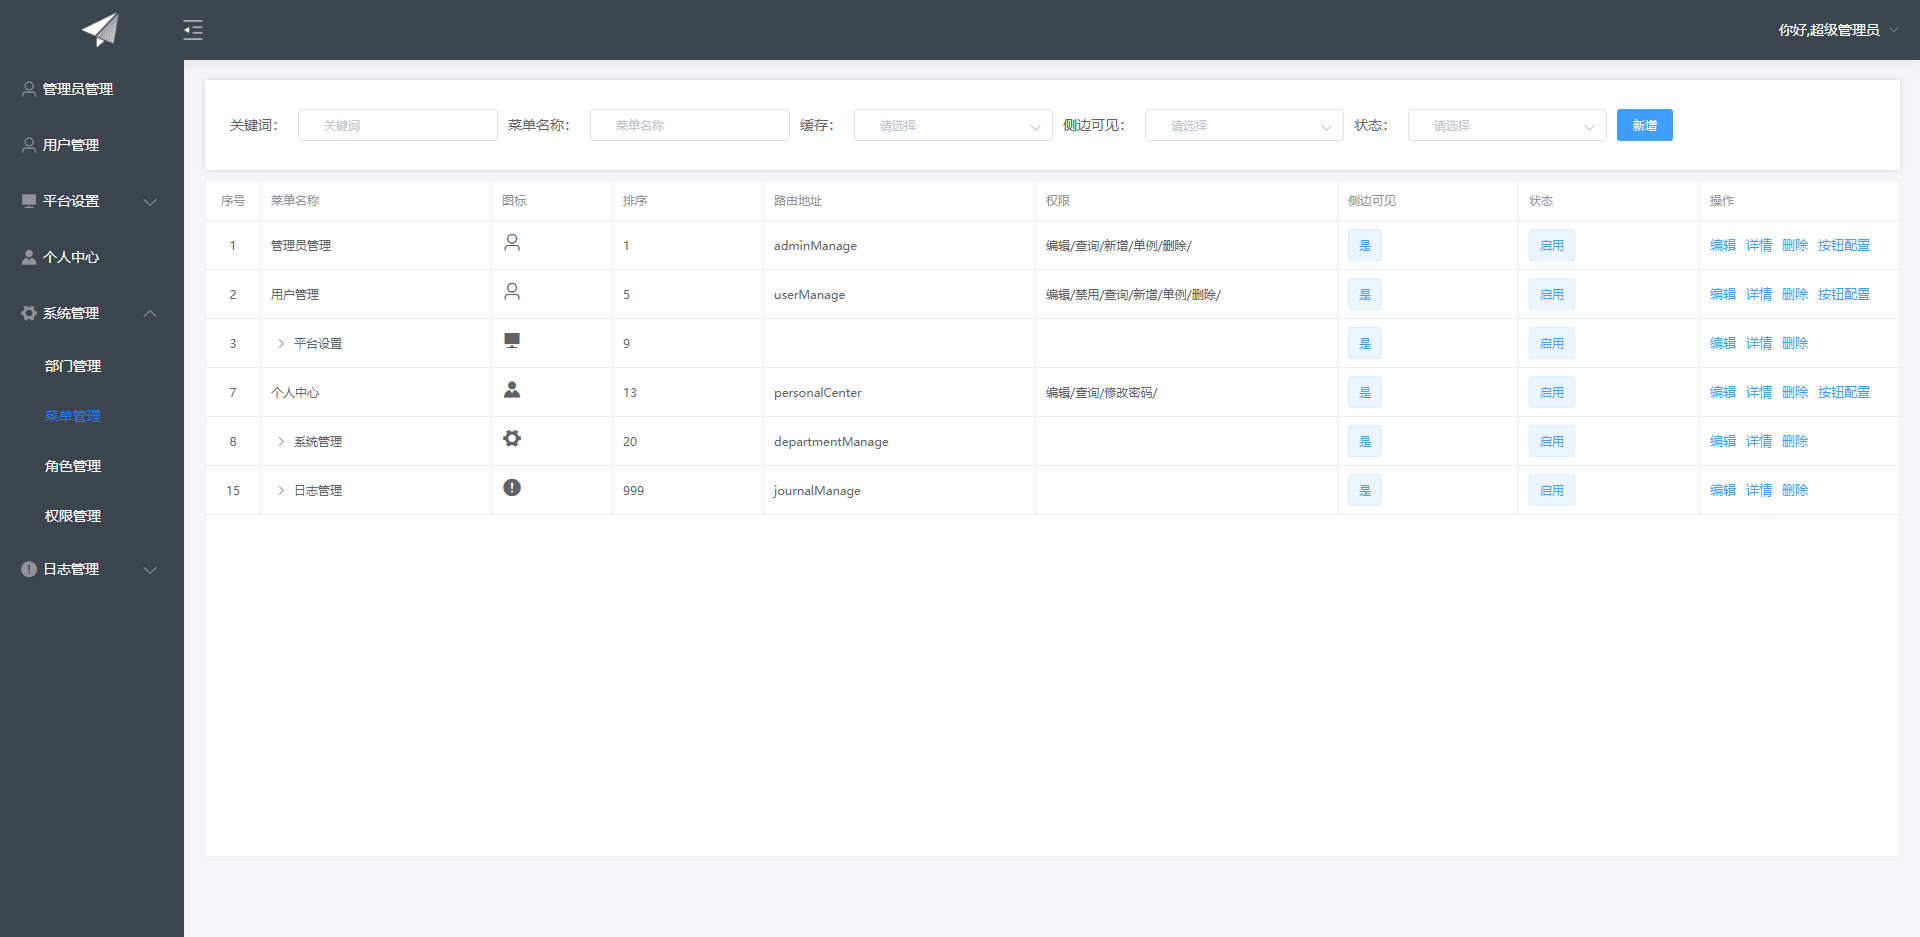
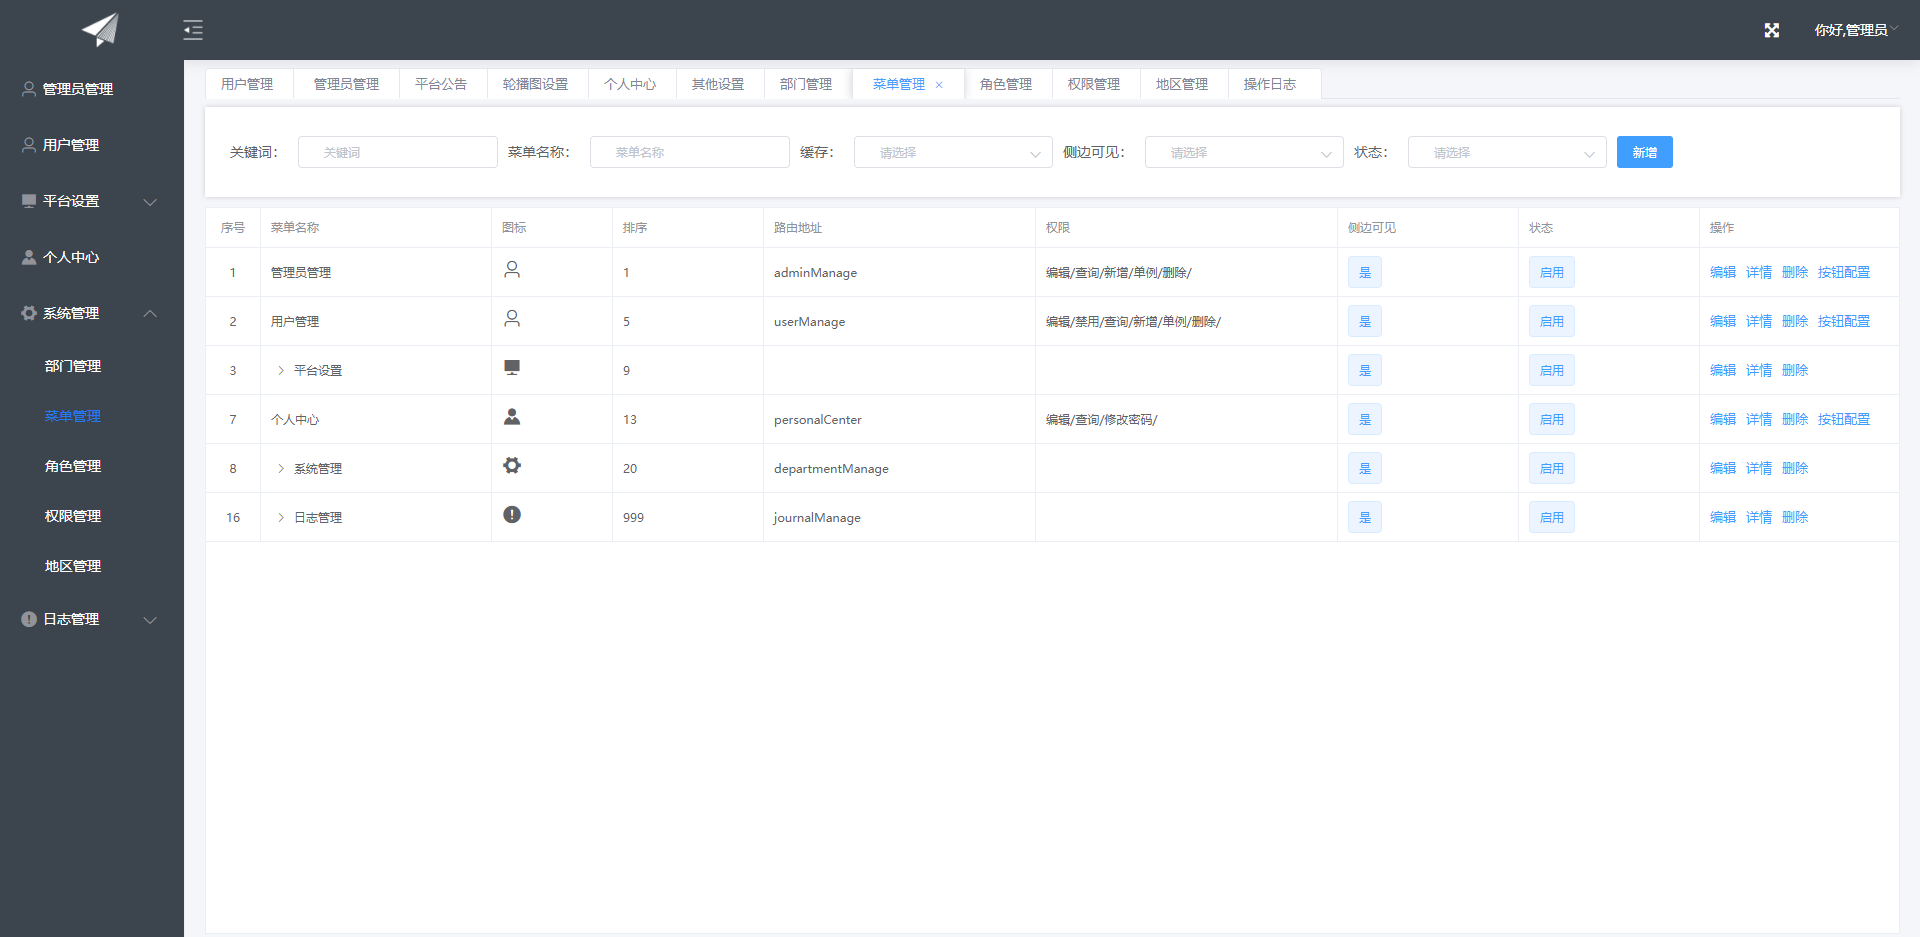
默认多标签页/多标签增加右键菜单功能

diff --git a/frontend/src/components/mutitabs.vue b/frontend/src/components/mutitabs.vue
@@ -5,13 +5,24 @@
       type="card"
       closable
       @tab-remove="removeTab"
-      @tab-click="tabClick($event)">
+      @tab-click="tabClick($event)"
+      @contextmenu.prevent.native="openContextMenu($event)">
       <el-tab-pane
         :key="item.name"
         v-for="item in editableTabs"
         :label="item.title"
         :name="item.name"></el-tab-pane>
     </el-tabs>
+    <ul
+        v-show="contextMenuVisible"
+        :style="{left:left+'px',top:top+'px'}"
+        class="contextmenu">
+        <li @click="closeAllTabs">关闭所有</li>
+        <li @click="closeOtherTabs('left')">关闭左边</li>
+        <li @click="closeOtherTabs('right')">关闭右边</li>
+        <li @click="closeOtherTabs('other')">关闭其他</li>
+        <li @click="closeContextMenu()">取消操作</li>
+      </ul>
     <keep-alive>
       <router-view v-if="$route.meta.isActive"></router-view>
     </keep-alive>
@@ -24,7 +35,12 @@ export default {
   name: "mutitabs",
   components: {},
   data() {
-    return {};
+    return {
+      //右键自定义菜单
+      contextMenuVisible:false,
+      left:0,
+      top:0,
+    };
   },
   mounted() {
     //刷新加载sessionStorage存着地址
@@ -64,6 +80,10 @@ export default {
     removeTab(targetName) {
       let tabs = this.editableTabs;
       let activeName = this.editableTabsValue;
+      //只有一个标签不允许关闭
+      if(tabs.length === 1){
+        return
+      }
       if (activeName === targetName) {
         tabs.forEach((tab, index) => {
           if (tab.name === targetName) {
@@ -89,8 +109,35 @@ export default {
       }
     },
     tabClick(event) {
+      //关闭自定义菜单
+      this.closeContextMenu()
       //写一个点击tabs跳转
       this.$router.push({ name: event.name });
+    },
+    //自定义菜单
+    openContextMenu(e) {
+      var obj =  e.srcElement ? e.srcElement : e.target;
+      if (obj.id) {
+        let currentContextTabId = obj.id.split("-")[1];
+        this.contextMenuVisible = true;
+        this.$store.commit("saveCurContextTabId", currentContextTabId);
+        this.left = e.clientX;
+        this.top = e.clientY + 13;
+      }
+    },
+    // 关闭所有标签页
+    closeAllTabs() {
+      this.$store.commit("closeAllTabs");
+      this.contextMenuVisible = false;
+    },
+    // 关闭其它标签页
+    closeOtherTabs(par) {
+      this.$store.commit("closeOtherTabs", par);
+      this.contextMenuVisible = false;
+    },
+    // 关闭contextMenu
+    closeContextMenu() {
+      this.contextMenuVisible = false;
     },
   },
 };
@@ -104,13 +151,44 @@ export default {
   }
   /*去除顶部线*/
   .myeltas2 .el-tabs__header {
-    border: none;
-    margin: 0 0 5px;
+    /*border: none;*/
+    margin: 0 0 8px;
   }
   .myeltas2 .el-tabs__nav{
     /*background-color: lightgrey;*/
     background-color: white;
+    border: none;
   }
-
+  /*字体大小*/
+  .myeltas2  .el-tabs__item{
+    font-size: 13px;
+    color: #808695;
+    height: 30px;
+    line-height: 30px;
+    padding: 0 15px;
+  }
+  /*自定义右键菜单*/
+  .contextmenu {
+    width: 100px;
+    margin: 0;
+    border: 1px solid #ccc;
+    background: #fff;
+    z-index: 3000;
+    position: absolute;
+    list-style-type: none;
+    padding: 5px 0;
+    border-radius: 4px;
+    font-size: 14px;
+    color: #333;
+    box-shadow: 2px 2px 3px 0 rgba(0, 0, 0, 0.2);
+  }
+  .contextmenu li {
+    margin: 0;
+    padding: 7px 16px;
+  }
+  .contextmenu li:hover {
+    background: #f2f2f2;
+    cursor: pointer;
+  }
 
 </style>

diff --git a/frontend/src/vuex/store.js b/frontend/src/vuex/store.js
@@ -14,10 +14,10 @@ export default new Vuex.Store({
     state: {
         user: false,
         //mutitabs
-        tabsPage: [],
-        TabsValue: '',
+        tabsPage: sessionStorage.getItem('tabsPage')||[{"title":"管理员管理","name":"adminManage"}],//默认显示的页
+        TabsValue: sessionStorage.getItem('TabsValue')||'adminManage',//默认选中显示的标签页
         //控制是否支持多选项卡
-        isMultiTabs:false
+        isMultiTabs:true
 
     },
     mutations: {
@@ -76,7 +76,44 @@ export default new Vuex.Store({
             // 跳转
             router.push({ name: obj.attributes.url })
           }
-        }
+        },
+                //自定义右键菜单
+        // 保存右键点击tab的id
+        saveCurContextTabId(state, curContextTabId) {
+          state.TabsValue = curContextTabId
+        },
+        // 关闭所有标签
+        closeAllTabs(state) {
+          state.tabsPage = [{"title":"管理员管理","name":"adminManage"}];
+          router.push({ name: "adminManage"});
+        },
+        // 关闭其它标签页
+        closeOtherTabs(state, par) {
+          let tabs = state.tabsPage;
+          let length = tabs.length;
+          let curContextTabId = state.TabsValue;
+          let id; // 右键点击时的tab在整个tabs数组中的id
+          tabs.forEach((tab, index) => {
+            if (tab.name == curContextTabId) {
+                id = index
+                return false
+            }
+          })
+          if (par == "left") {
+            if (id > 0) {
+              state.tabsPage = state.tabsPage.slice(id, length)
+            }
+          }
+          if (par == "right") {
+            if (id > 0) {
+              state.tabsPage = state.tabsPage.slice(0, id + 1)
+            }
+          }
+          if (par == "other") {
+              state.tabsPage = [tabs[id]]
+              state.TabsValue = tabs[id].name
+          }
+        },
     },
     actions: {
         // 注册方法

diff --git a/frontend/src/views/journalManage/journalManage.vue b/frontend/src/views/journalManage/journalManage.vue
@@ -21,7 +21,7 @@
                 <el-form-item label=""><el-button size="small" @click="deleteAlllogs" type="danger" v-show="isShowBtn('journalManage','操作日志','Delete')">全部清空</el-button></el-form-item>
             </el-form>
         </div>
-        <el-table  size="small" height="calc(100vh - 260px)" border :data="tableData" v-loading="loadingPage" style="width: 100%">
+        <el-table  size="small" height="calc(100vh - 280px)" border :data="tableData" v-loading="loadingPage" style="width: 100%">
             <el-table-column type="index" width="60" align="center" label="序号"></el-table-column>
             <el-table-column min-width="90" prop="request_modular" label="请求模块" show-overflow-tooltip></el-table-column>
             <el-table-column min-width="120" prop="request_path" label="请求地址" show-overflow-tooltip></el-table-column>

diff --git a/frontend/src/views/messageCenter/messagNotice.vue b/frontend/src/views/messageCenter/messagNotice.vue
@@ -21,7 +21,7 @@
                 <el-form-item label=""><el-button size="small" @click="addModule" type="primary" v-show="isShowBtn('messagNotice','平台公告','Create')">新增</el-button></el-form-item>
             </el-form>
         </div>
-        <el-table size="small" height="calc(100vh - 260px)" border :data="tableData" v-loading="loadingPage" style="width: 100%">
+        <el-table size="small" height="calc(100vh - 280px)" border :data="tableData" v-loading="loadingPage" style="width: 100%">
             <el-table-column type="index" width="60" align="center" label="序号"></el-table-column>
             <el-table-column min-width="90" prop="msg_title" label="公告标题"></el-table-column>
             <el-table-column min-width="120" prop="to_path" label="跳转路径"></el-table-column>

diff --git a/frontend/src/views/userFeekback/userFeekback.vue b/frontend/src/views/userFeekback/userFeekback.vue
@@ -23,7 +23,7 @@
 <!--        </div>-->
 
         <div class="table">
-            <el-table size="small" height="calc(100vh - 260px)" border :data="tableData" ref="tableref" v-loading="loadingPage" style="width: 100%" tooltip-effect="dark" @selection-change="handleSelectionChange">
+            <el-table size="small" height="calc(100vh - 280px)" border :data="tableData" ref="tableref" v-loading="loadingPage" style="width: 100%" tooltip-effect="dark" @selection-change="handleSelectionChange">
                 <el-table-column type="index" width="60" align="center" label="序号"></el-table-column>
 <!--                <el-table-column type="selection" width="55" align="center"></el-table-column>-->
                 <el-table-column min-width="100" prop="user" label="用户"></el-table-column>

diff --git a/frontend/src/views/platformSettings/platformSettingsother.vue b/frontend/src/views/platformSettings/platformSettingsother.vue
@@ -11,7 +11,7 @@
             </el-form>
         </div>
         <div class="table">
-            <el-table size="small" height="calc(100vh - 260px)" border :data="tableData" v-loading="loadingPage" style="width: 100%" tooltip-effect="dark" @selection-change="handleSelectionChange">
+            <el-table size="small" height="calc(100vh - 280px)" border :data="tableData" v-loading="loadingPage" style="width: 100%" tooltip-effect="dark" @selection-change="handleSelectionChange">
 <!--                <el-table-column type="index" width="60" align="center" label="序号"></el-table-column>-->
                 <el-table-column type="selection" width="55" align="center"></el-table-column>
                 <!--<el-table-column min-width="120" prop="name" label="图片">-->

diff --git a/frontend/src/views/messageCenter/messagTemplate.vue b/frontend/src/views/messageCenter/messagTemplate.vue
@@ -21,7 +21,7 @@
                 <el-form-item label=""><el-button size="small" @click="addModule" type="primary">新增</el-button></el-form-item>
             </el-form>
         </div>
-        <el-table size="small" height="calc(100vh - 260px)" border :data="tableData" v-loading="loadingPage" style="width: 100%">
+        <el-table size="small" height="calc(100vh - 280px)" border :data="tableData" v-loading="loadingPage" style="width: 100%">
             <el-table-column type="index" width="60" align="center" label="序号"></el-table-column>
             <el-table-column min-width="90" prop="code" label="模板code"></el-table-column>
             <el-table-column min-width="120" prop="title" label="模板title"></el-table-column>

diff --git a/frontend/src/views/platformSettings/carouselSettingsimg.vue b/frontend/src/views/platformSettings/carouselSettingsimg.vue
@@ -4,7 +4,7 @@
             <el-tab-pane label="首页轮播图管理" name="1"></el-tab-pane>
             <el-tab-pane label="分类页轮播图管理" name="2"></el-tab-pane>
         </el-tabs>
-        <el-table size="small" height="calc(100vh - 214px)" border :data="tableData" v-loading="loadingPage" style="width: 100%">
+        <el-table size="small" height="calc(100vh - 234px)" border :data="tableData" v-loading="loadingPage" style="width: 100%">
             <el-table-column type="index" width="60" align="center" label="序号"></el-table-column>
             <el-table-column min-width="120" prop="image" :label="(formInline.type==1) ? '图片' :'图片'">
                 <template slot-scope="scope">

diff --git a/frontend/src/views/adminManage/adminManage.vue b/frontend/src/views/adminManage/adminManage.vue
@@ -38,7 +38,7 @@
         </div>
 
         <div class="table">
-            <el-table size="small" height="calc(100vh - 260px)" border :data="tableData" v-loading="loadingPage" style="width: 100%">
+            <el-table size="small" height="calc(100vh - 280px)" border :data="tableData" v-loading="loadingPage" style="width: 100%">
                 <el-table-column type="index" width="60" align="center" label="序号"></el-table-column>
                 <!--<el-table-column min-width="150" prop="id" label="管理员编号" show-overflow-tooltip></el-table-column>-->
                 <el-table-column min-width="120" prop="name" label="管理员名称"></el-table-column>

diff --git a/frontend/src/views/systemManage/roleManage/roleManage.vue b/frontend/src/views/systemManage/roleManage/roleManage.vue
@@ -25,7 +25,7 @@
         </div>
 
         <div class="table">
-            <el-table size="small" height="calc(100vh - 260px)" border :data="tableData" v-loading="loadingPage" style="width: 100%">
+            <el-table size="small" height="calc(100vh - 280px)" border :data="tableData" v-loading="loadingPage" style="width: 100%">
                 <el-table-column width="80" type="index" align="center" label="序号"></el-table-column>
                 <el-table-column min-width="120" prop="name" label="角色名称"></el-table-column>
                 <el-table-column min-width="120" prop="key" label="权限字符"></el-table-column>

diff --git a/frontend/src/views/systemManage/authorityManage/authorityManage.vue b/frontend/src/views/systemManage/authorityManage/authorityManage.vue
@@ -19,7 +19,7 @@
                 >
                 </el-tree>
             </div>
-            <div class="auth-item" style="height: calc(100vh - 400px);">
+            <div class="auth-item" style="height: calc(100vh - 414px);">
                 <div class="auth-title">
                     数据授权：
                     <el-tooltip
@@ -56,7 +56,7 @@
 
             </div>
         </div>
-        <div class="auth-item" style="height: calc(100vh - 100px);">
+        <div class="auth-item" style="height: calc(100vh - 114px);">
             <div class="auth-title">
                 菜单授权：
                 <el-tooltip

diff --git a/frontend/src/views/userManage/userManage.vue b/frontend/src/views/userManage/userManage.vue
@@ -25,7 +25,7 @@
         </div>
 
         <div class="table">
-            <el-table size="small" height="calc(100vh - 260px)" border :data="tableData" v-loading="loadingPage" style="width: 100%">
+            <el-table size="small" height="calc(100vh - 280px)" border :data="tableData" v-loading="loadingPage" style="width: 100%">
                 <el-table-column type="index" width="60" align="center" label="序号"></el-table-column>
                 <el-table-column min-width="70" prop="avatar" label="用户头像">
                     <template slot-scope="scope">
